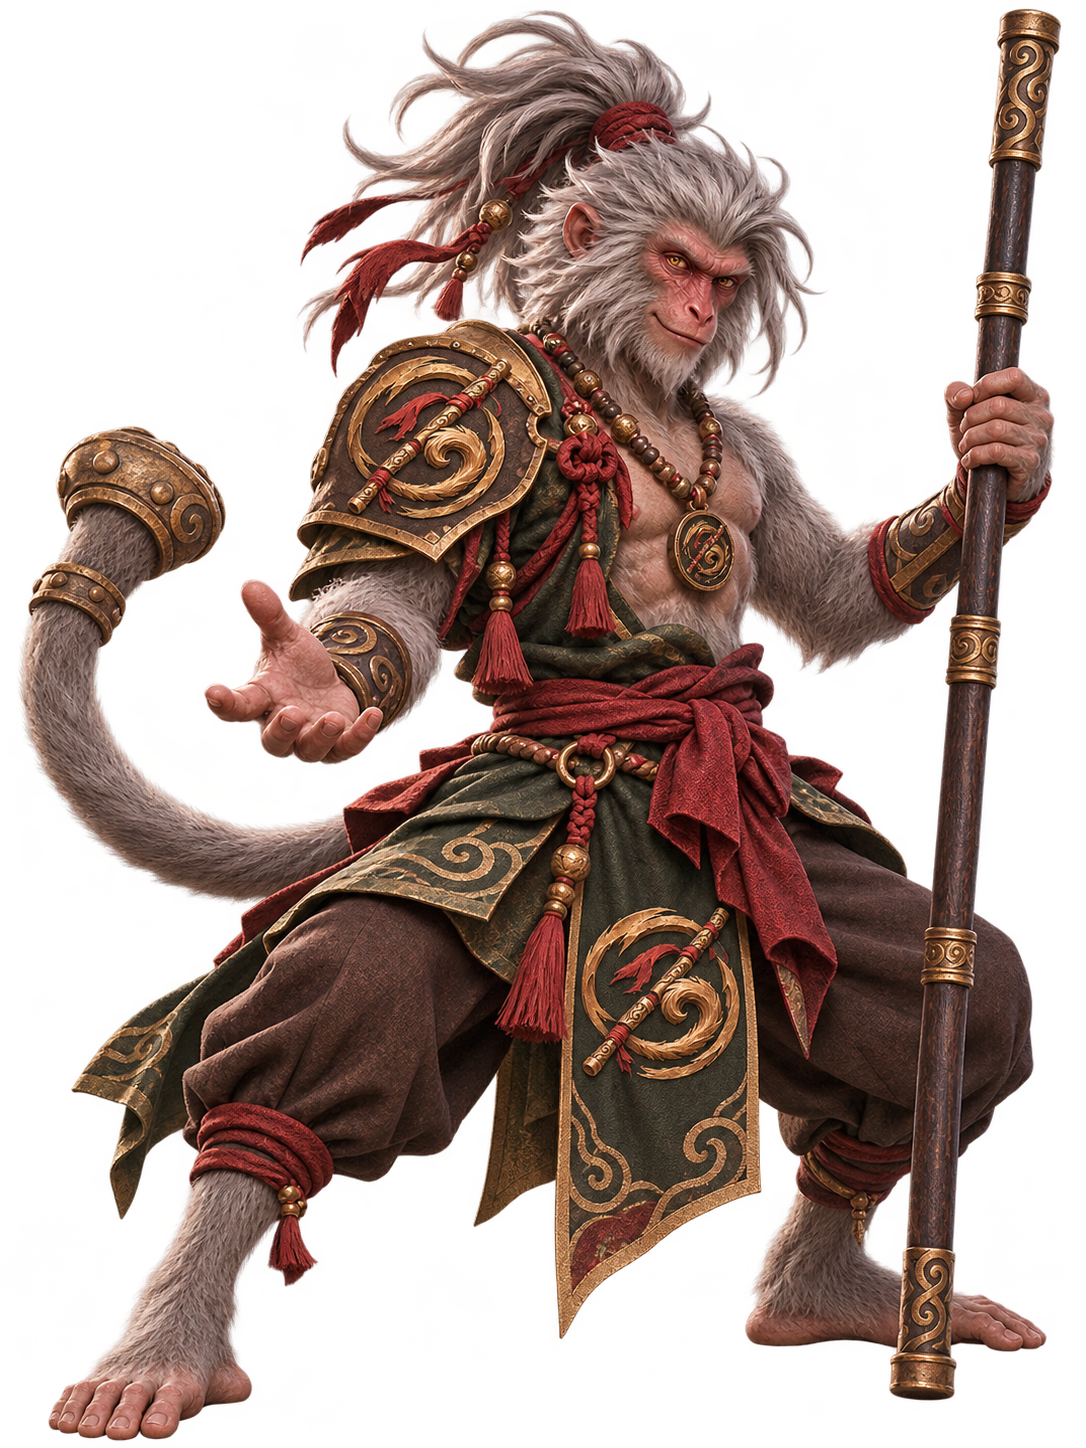
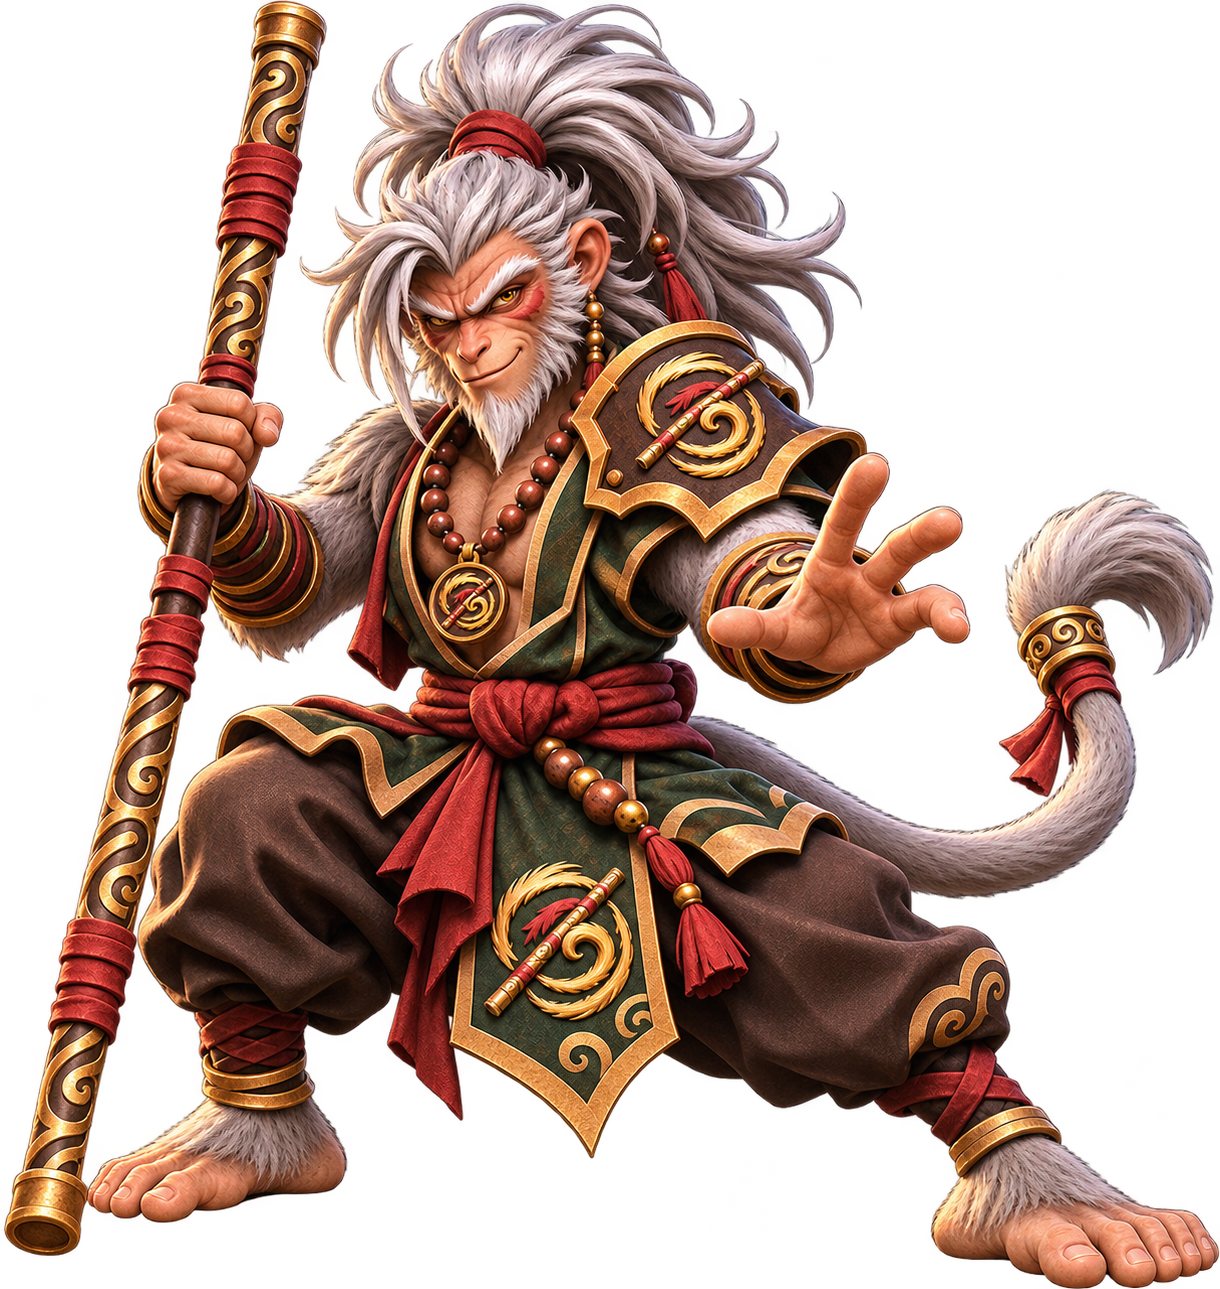
Replace Kaiketsu canonical portrait with approved sharper-face version

diff --git a/index.html b/index.html
@@ -737,7 +737,7 @@
     <p>Masters of Sarumai, a martial tradition of agility, natural strength, rhythm and adaptation. <a href="symbols.html#monkey-tribe">Discover the Circle Breaker crest.</a></p>
     <div class="character-gallery" style="grid-template-columns:repeat(auto-fit,minmax(min(100%,280px),1fr));max-width:1080px;margin-inline:auto">
       <article class="character world-character-card" id="kaiketsu" style="max-width:540px;width:100%;justify-self:center">
-        <div class="character-media"><img loading="lazy" decoding="async" src="world-characters/monkey-tribe/kaiketsu-canonical.png" width="1086" height="1448" alt="Kaiketsu, silver-furred macaque king in forest-green and bronze robes with the Circle Breaker crest, his royal three-part bo staff and hammer-tipped tail."></div>
+        <div class="character-media"><img loading="lazy" decoding="async" src="world-characters/monkey-tribe/kaiketsu-canonical.png" width="1220" height="1289" alt="Kaiketsu, silver-furred macaque king in forest-green and bronze robes with the Circle Breaker crest, his royal three-part bo staff and hammer-tipped tail."></div>
         <div class="character-body"><div class="character-role">Monkey King · Master of Sarumai · Rank 2</div><h3>Kaiketsu (解決)</h3><p>The Solution Bearer. A cunning and charismatic king who rules through skill in the challenge circle, not inherited authority.</p><button type="button" class="profile-trigger" data-character="kaiketsu" aria-label="Explore Kaiketsu's approved portrait">Explore character <span aria-hidden="true">↗</span></button></div>
       </article>
     </div>
